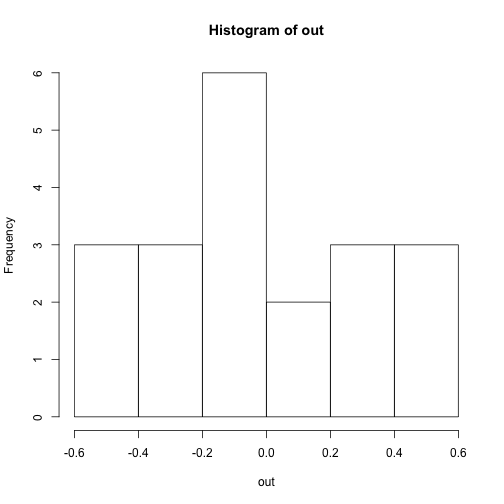
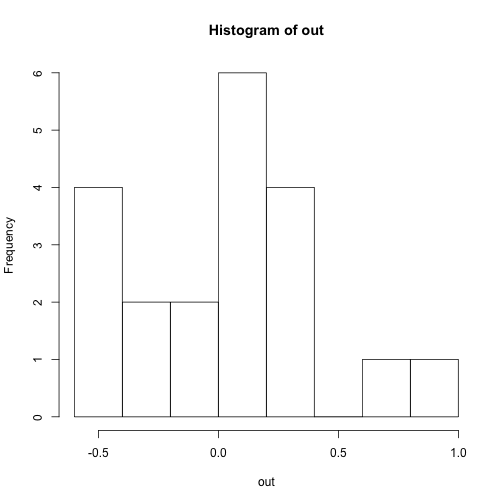
Re-knit exercise answers

diff --git a/2013-12-plyr/plyr-exercises-answers.md b/2013-12-plyr/plyr-exercises-answers.md
@@ -17,7 +17,7 @@ We're going to work with morphological data from Galapagos finches, which is ava
 First, load the plyr package:
 
 
-```r
+```S
 library(plyr)
 ```
 
@@ -25,7 +25,7 @@ library(plyr)
 I've taken the data and cleaned it up a bit for this exercise. I've removed some columns and made the column names lower case. I've also removed all but one island. You can do that with this code:
 
 
-```r
+```S
 morph <- read.csv("Morph_for_Sato.csv")
 names(morph) <- tolower(names(morph))  # make columns names lowercase
 morph <- subset(morph, islandid == "Flor_Chrl")  # take only one island
@@ -42,7 +42,7 @@ row.names(morph) <- NULL  # tidy up the row names
 Take a look at the data. There are columns for taxon, sex, wing length, beak height, and upper beak length:
 
 
-```r
+```S
 head(morph)
 str(morph)
 ```
@@ -53,7 +53,7 @@ str(morph)
 Let's calculate the mean wing length for each taxon:
 
 
-```r
+```S
 ddply(morph, "taxon", summarize, mean_wingl = mean(wingl))
 ```
 
@@ -78,7 +78,7 @@ ddply(morph, "taxon", summarize, mean_wingl = mean(wingl))
 We can extend that syntax to multiple grouping columns and multiple summary columns. For example, calculate the mean and standard deviation of wing length for each taxon-sex combination:
 
 
-```r
+```S
 ddply(morph, c("taxon", "sex"), summarize, mean_wingl = mean(wingl), sd_wingl = sd(wingl))
 ```
 
@@ -113,7 +113,7 @@ ddply(morph, c("taxon", "sex"), summarize, mean_wingl = mean(wingl), sd_wingl = 
 We can, of course, do much more than just take means and variances! The `cor()` function computes the correlation between two vectors of numbers. If you're not familiar with the `cor()` function, first bring up the help file with `?cor`. Then, on your own, try calculating the correlation between wing length and beak height for each taxon.
 
 
-```r
+```S
 ddply(morph, "taxon", summarize, r = cor(wingl, beakh))
 ```
 
@@ -138,8 +138,15 @@ ddply(morph, "taxon", summarize, r = cor(wingl, beakh))
 It's always good to plot the data [to understand what's going on](http://en.wikipedia.org/wiki/Anscombe's_quartet). Although this is outside of today's scope, we can do that quickly with ggplot2 like this:
 
 
-```r
+```S
 library(ggplot2)
+```
+
+```
+## Loading required package: methods
+```
+
+```S
 ggplot(morph, aes(beakh, wingl)) + geom_point(aes(colour = sex)) + facet_wrap(~taxon)
 ```
 
@@ -151,7 +158,7 @@ OK, now let's try using the `transform()` function with plyr. Whereas summarize 
 Let's try scaling the wing length and beak height data within each taxon using the `scale()` function. Assign the new data frame to an object named `morph_scaled` and call the new columns `scaled_beakh` and `scaled_wingl`.
 
 
-```r
+```S
 morph_scaled <- ddply(morph, "taxon", transform, scaled_beakh = scale(beakh), 
     scaled_wingl = scale(wingl))
 head(morph_scaled)
@@ -173,7 +180,7 @@ How does this compare to the output from a `ddply()` call with `summarize()`?
 Run this code to look at the output. How does this compare to the previous plot? When might you use this?
 
 
-```r
+```S
 library(ggplot2)
 ggplot(morph_scaled, aes(scaled_beakh, scaled_wingl)) + geom_point(aes(colour = sex)) + 
     facet_wrap(~taxon)
@@ -185,7 +192,7 @@ ggplot(morph_scaled, aes(scaled_beakh, scaled_wingl)) + geom_point(aes(colour = 
 One more thing. You can easily pass additional arguments within plyr. For example, if we used the original dataset before we removed NA values and we wanted to take the mean, we can do that by adding `na.rm = TRUE`. Remember that the data frame `morph_orig` contains the original dataset. Try taking the mean wing length for each taxon and removing NAs in one step.
 
 
-```r
+```S
 # the original code:
 ddply(morph_orig, "taxon", summarize, mean_wingl = mean(wingl))
 ```
@@ -211,7 +218,7 @@ ddply(morph_orig, "taxon", summarize, mean_wingl = mean(wingl))
 ## 17           Platyspiza crassirostris         NA
 ```
 
-```r
+```S
 ddply(morph_orig, "taxon", summarize, mean_wingl = mean(wingl, na.rm = TRUE))
 ```
 
@@ -245,7 +252,7 @@ ddply(morph_orig, "taxon", summarize, mean_wingl = mean(wingl, na.rm = TRUE))
 Just to make sure everyone's on the same page, let's write a simple function that takes two numbers and adds them together. Then run it once:
 
 
-```r
+```S
 my_sum <- function(x, y) {
     output <- x + y
     output
@@ -263,7 +270,7 @@ OK, now we're going to work towards running a linear model on wing length and be
 First, let's try returning a linear model for each taxon. We can store the output in a list and use `dlply`. We'll call the output `morph_lm`.
 
 
-```r
+```S
 morph_lm <- dlply(morph, "taxon", function(x) {
     lm(beakh ~ wingl, data = x)
 })
@@ -272,7 +279,7 @@ morph_lm <- dlply(morph, "taxon", function(x) {
 
 Let's look at some of that output:
 
-```r
+```S
 morph_lm[[1]]
 ```
 
@@ -286,7 +293,7 @@ morph_lm[[1]]
 ##      4.7201       0.0436
 ```
 
-```r
+```S
 morph_lm[[2]]
 ```
 
@@ -304,7 +311,7 @@ morph_lm[[2]]
 OK, now let's work through those linear models and grab the slope and standard error. Note that we're starting with a list and want to return a data frame.
 
 
-```r
+```S
 ldply(morph_lm, function(x) {
     slope <- summary(x)$coef[1, 2]
     se <- summary(x)$coef[2, 2]
@@ -333,7 +340,7 @@ ldply(morph_lm, function(x) {
 Note that we don't have to write our function inline. This is especially helpful for longer functions. For example, let's re-write the previous code chunk without an inline function.
 
 
-```r
+```S
 get_lm_stats <- function(x) {
     slope <- summary(x)$coef[1, 2]
     se <- summary(x)$coef[2, 2]
@@ -365,7 +372,7 @@ Note that we could have done all of that in one `ddply()` step. We did it in two
 Your turn: can you re-write what we just did in one call to `ddply()`?
 
 
-```r
+```S
 ddply(morph, "taxon", function(x) {
     m <- lm(beakh ~ wingl, data = x)
     slope <- summary(m)$coef[1, 2]
@@ -397,7 +404,7 @@ ddply(morph, "taxon", function(x) {
 We're going to try debugging a custom function with `browser()`. Something is wrong with the following simple function. Let's find it:
 
 
-```r
+```S
 morph_ci <- ddply(morph, "taxon", function(x) {
     m <- lm(beakh ~ wingl, data = x)
     ci <- confint(m)[2, 3]
@@ -415,26 +422,26 @@ morph_ci <- ddply(morph, "taxon", function(x) {
 plyr can be useful for simulations. We're going to work with a trivial example here. Let's simulate 10 values from a normal distribution with mean zero and standard deviation 1 through 4.
 
 
-```r
+```S
 llply(1:4, function(x) rnorm(10, 0, sd = x))
 ```
 
 ```
 ## [[1]]
-##  [1]  0.2311  0.2244 -0.0474 -0.1764  0.3919  0.7401  0.8764 -1.0544
-##  [9]  1.5138 -1.2850
+##  [1] -0.1052 -0.2720 -1.1488  0.6696 -0.2523 -0.3796 -1.7480  1.2844
+##  [9] -0.8342 -0.3831
 ## 
 ## [[2]]
-##  [1]  0.35645 -0.91012  0.07421 -0.79584  0.97091 -0.06937 -1.91502
-##  [8] -0.60944  0.19420 -0.62915
+##  [1]  0.07957 -2.72246  0.77890 -2.92047 -1.60570  2.18711  2.53916
+##  [8] -2.62116  3.51537  0.39786
 ## 
 ## [[3]]
-##  [1]  2.3075  3.7408 -1.4679  2.7180 -4.1915 -4.0557  1.4581 -2.2165
-##  [9]  0.5429 -2.2177
+##  [1] -1.5295 -1.5883 -0.4100 -0.8041  1.7898 -5.3934  1.7182 -1.1132
+##  [9] -0.9152  2.0993
 ## 
 ## [[4]]
-##  [1] -3.1399 -1.2635 -1.2237  1.2727 -0.4251 -0.9166  0.5381  4.4942
-##  [9]  1.1421 -1.1864
+##  [1]  8.6631 -4.1991  3.0358 -0.2436  2.5803  4.9236  0.6305 -2.2154
+##  [9] -7.6198  5.7998
 ```
 
 
@@ -442,7 +449,7 @@ We can also use plyr for replication. Let's generate 10 values from a standard n
 
 
 
-```r
+```S
 out <- raply(20, function(x) {
     temp <- rnorm(10, 0, 1)
     mean(temp)
@@ -456,8 +463,23 @@ hist(out)
 plyr makes parallel processing easy. Let's try the last example with and without parallel processing. We'll generate many more values (1e5) so we can see the difference and repeat the process 400 times. We'll use `laply` instead of `raply` because the replicate option does not have the parallel option built in.
 
 
-```r
+```S
 library(doParallel)
+```
+
+```
+## Loading required package: foreach
+```
+
+```
+## Loading required package: iterators
+```
+
+```
+## Loading required package: parallel
+```
+
+```S
 registerDoParallel(cores = 4)
 system.time(out <- laply(1:400, function(x) {
     temp <- rnorm(1e+05, 0, 1)
@@ -467,10 +489,10 @@ system.time(out <- laply(1:400, function(x) {
 
 ```
 ##    user  system elapsed 
-##   4.222   0.177   4.431
+##   4.104   0.048   4.152
 ```
 
-```r
+```S
 system.time(out <- laply(1:400, function(x) {
     temp <- rnorm(1e+05, 0, 1)
     mean(temp)
@@ -479,7 +501,7 @@ system.time(out <- laply(1:400, function(x) {
 
 ```
 ##    user  system elapsed 
-##   9.847   0.488   2.155
+##   5.259   0.340   2.051
 ```
 
 
@@ -490,43 +512,43 @@ plyr has an `m` option for taking in multiple inputs. This is similar to `mapply
 By multiple argument passing, I mean that you can pass multiple arguments from, say, a data frame to your function. Let's work with a simple example based off the one in `?mdply`.
 
 
-```r
+```S
 my_input <- data.frame(m = 1:5, sd = 1:5)
 mdply(my_input, as.data.frame(rnorm), n = 2)
 ```
 
 ```
 ##    m sd    value
-## 1  1  1  1.90477
-## 2  1  1  1.73313
-## 3  2  2  2.30604
-## 4  2  2  0.49832
-## 5  3  3  4.55033
-## 6  3  3  6.29879
-## 7  4  4 -0.06501
-## 8  4  4 12.08575
-## 9  5  5 -0.81454
-## 10 5  5  9.75774
+## 1  1  1  0.55487
+## 2  1  1  2.28636
+## 3  2  2 -0.06983
+## 4  2  2  2.87580
+## 5  3  3  2.48375
+## 6  3  3  6.59215
+## 7  4  4  0.61305
+## 8  4  4 14.37854
+## 9  5  5  4.39600
+## 10 5  5  7.61576
 ```
 
 
 This is an example of where `expand.grid()` is often useful. For example, try using `expand.grid()` around the `my_input` data frame and re-running the same code:
 
 
-```r
+```S
 my_input <- expand.grid(data.frame(m = 1:5, sd = 1:5))
 out <- mdply(my_input, as.data.frame(rnorm), n = 3)
 head(out)
 ```
 
 ```
-##   m sd   value
-## 1 1  1  2.2535
-## 2 1  1  2.3907
-## 3 1  1 -0.1985
-## 4 2  1  2.3581
-## 5 2  1  3.5823
-## 6 2  1  1.9438
+##   m sd    value
+## 1 1  1 -0.02895
+## 2 1  1 -0.18473
+## 3 1  1  0.41293
+## 4 2  1  3.15761
+## 5 2  1  2.15632
+## 6 2  1  1.46451
 ```
 
 
@@ -543,7 +565,7 @@ These bits of code are borrowed from the dplyr [introduction.Rmd](https://github
 First we'll unload plyr and load dplyr. The example uses a massive dataset of all flights departing Houston airports in 2011.
 
 
-```r
+```S
 detach(package:plyr)  # you can't (yet) have plyr loaded at the same time!
 library(dplyr)
 dim(hflights)
@@ -554,7 +576,7 @@ head(hflights)
 Create a data frame of class `tble`. This is just a data frame with some smarter printing characteristics for big datasets.
 
 
-```r
+```S
 hflights_df <- tbl_df(hflights)
 hflights_df
 ```
@@ -563,7 +585,7 @@ hflights_df
 Filter is similar to `subset()`.
 
 
-```r
+```S
 filter(hflights_df, Month == 1, DayofMonth == 1)
 ```
 
@@ -571,7 +593,7 @@ filter(hflights_df, Month == 1, DayofMonth == 1)
 `select()` is an easier way of selecting columns:
 
 
-```r
+```S
 select(hflights_df, Year, Month, DayOfWeek)
 select(hflights_df, Year:DayOfWeek)
 select(hflights_df, -(Year:DayOfWeek))
@@ -581,7 +603,7 @@ select(hflights_df, -(Year:DayOfWeek))
 `group_by` combined with `summarise()` is the equivalent of `ddply()` and `do()` is the equivalent of `dlply()`.
 
 
-```r
+```S
 planes <- group_by(hflights_df, TailNum)
 delay <- summarise(planes, count = n(), dist = mean(Distance, na.rm = TRUE), 
     delay = mean(ArrDelay, na.rm = TRUE))
